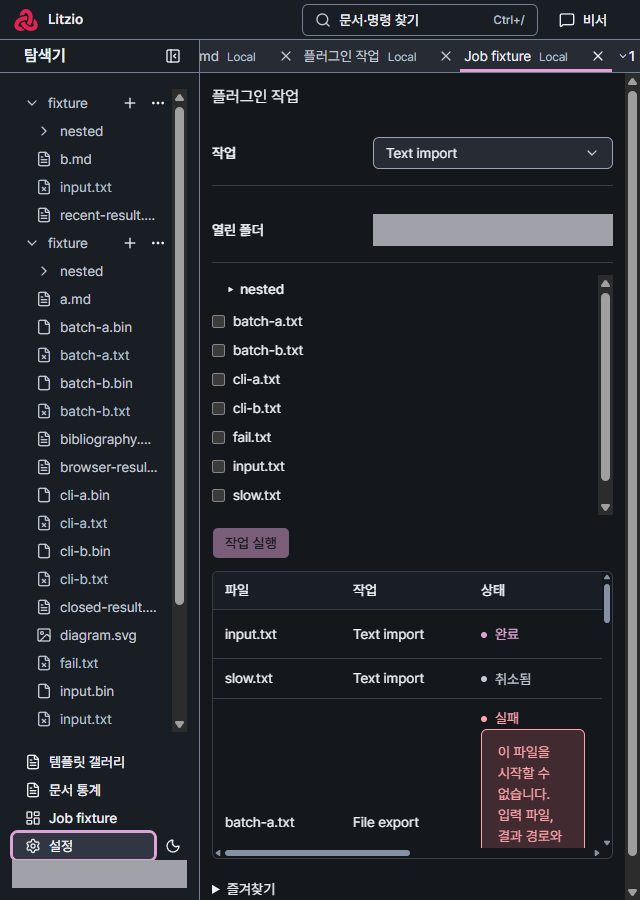
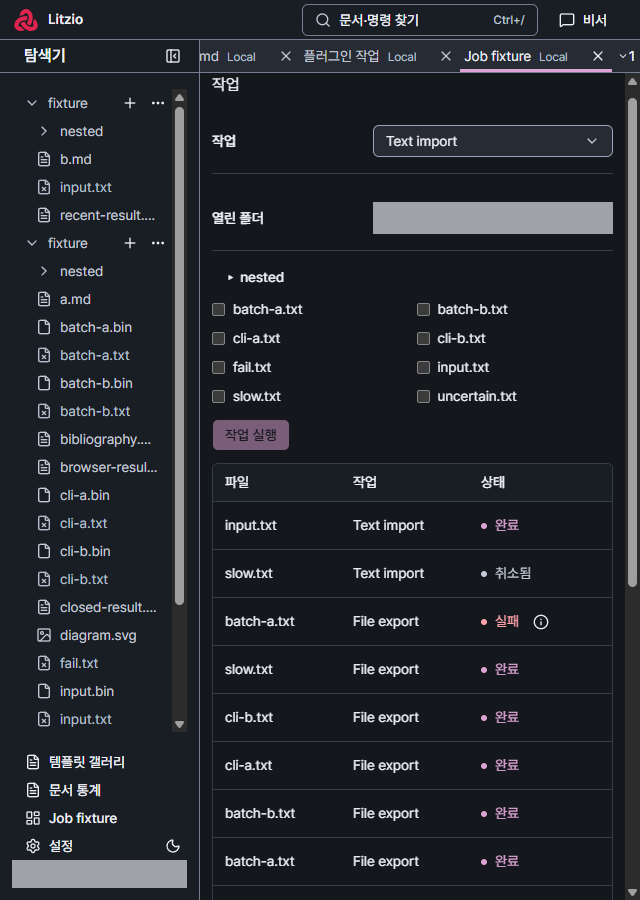
fix(editor): preserve job cancellation across stale observations
Share per-job observation generations across the screen panel and existing
Plugin jobs page. Invalidate earlier polls when a user action starts, and
pause that row's polling until its action settles. Cover delayed success
and error after stop acknowledgement with controlled promises.

Keep job rows compact with focusable error tooltips and ghost open actions.
Let the page own vertical scrolling and retain horizontal table scrolling.

AI-Agent: Codex
AI-Model: openai/gpt-6.1-sol

diff --git a/apps/editor/src/PluginJobs.tsx b/apps/editor/src/PluginJobs.tsx
@@ -1,3 +1,4 @@
+import { JobObservations } from "./job-observations.ts";
 import { randomUuid } from "./uuid.ts";
 import { i18n } from "./i18n.ts";
 import { useEffect, useRef, useState } from "react";
@@ -28,6 +29,7 @@ export function PluginJobs({ client, hostId, roots, active, onOpen }: { client: 
   const requestId = job?.requestId;
   const [recent, setRecent] = useState<JobSnapshot[]>([]);
   useEffect(() => { if (job) setRecent(previous => [job, ...previous.filter(item => item.requestId !== job.requestId)]); }, [job]);
+  const observations = useRef(new JobObservations());
   const lifetime = useRef<AbortController | null>(null);
   useEffect(() => { const controller = new AbortController(); lifetime.current = controller; return () => controller.abort(); }, []);
   const request = async (body?: unknown) => {
@@ -36,6 +38,7 @@ export function PluginJobs({ client, hostId, roots, active, onOpen }: { client: 
     const value = await response.json(); signal.throwIfAborted();
     if (!response.ok) { const message = value.error ?? "Job request failed"; throw response.status >= 400 && response.status < 500 ? new JobRefused(message) : new Error(message); } return value;
   };
+  const observe = (action: "job-status" | "job-stop", id: string) => observations.current.observe(id, "action", () => request({ action, requestId: id }), value => setJob(value.job), error => { throw error; });
   useEffect(() => {
     void Promise.all([request(), request({ action: "job-list" })]).then(([catalog, history]) => {
       setPlugins(catalog.plugins); setRecent(history.jobs);
@@ -60,7 +63,16 @@ export function PluginJobs({ client, hostId, roots, active, onOpen }: { client: 
   useEffect(() => {
     if (!active || !requestId || job?.state !== "running" || busy) return;
     const controller = new AbortController(); let timer: ReturnType<typeof setTimeout>;
-    const poll = async () => { try { const response = await client.request("/api/plugins", { method: "POST", headers: { "Content-Type": "application/json" }, body: JSON.stringify({ action: "job-status", requestId }), signal: AbortSignal.any([controller.signal, AbortSignal.timeout(10000)]) }); if (!response.ok) throw new Error(); const value = await response.json(); if (!controller.signal.aborted) { setJob(value.job); if (value.job.state === "running") timer = setTimeout(poll, 1000); } } catch { if (!controller.signal.aborted) setJob(previous => previous ? { ...previous, state: "uncertain", result: undefined } : previous); } };
+    const poll = async () => {
+      await observations.current.observe(requestId, "poll", async () => {
+        const response = await client.request("/api/plugins", { method: "POST", headers: { "Content-Type": "application/json" }, body: JSON.stringify({ action: "job-status", requestId }), signal: AbortSignal.any([controller.signal, AbortSignal.timeout(10000)]) });
+        if (!response.ok) throw new Error();
+        return response.json();
+      }, value => { if (!controller.signal.aborted) setJob(value.job); }, () => {
+        if (!controller.signal.aborted) setJob(previous => previous?.requestId === requestId ? { ...previous, state: "uncertain", result: undefined } : previous);
+      });
+      if (!controller.signal.aborted) timer = setTimeout(poll, 1000);
+    };
     timer = setTimeout(poll, 1000); return () => { controller.abort(); clearTimeout(timer); };
   }, [active, requestId, job?.state, busy, client]);
   const run = async (action: () => Promise<void>) => { setBusy(true); setProblem(""); try { await action(); } catch (error) { if (!lifetime.current?.signal.aborted) { setProblem(String(error)); setJob(previous => previous?.state === "running" ? { ...previous, state: "uncertain", result: undefined } : previous); } } finally { if (!lifetime.current?.signal.aborted) setBusy(false); } };
@@ -99,7 +111,7 @@ export function PluginJobs({ client, hostId, roots, active, onOpen }: { client: 
       {job.progress ? <div className="plugin-job-progress"><Progress aria-label={i18n.t("Job progress")} max={job.progress.total} value={job.progress.done} /><span>{job.progress.done}/{job.progress.total}</span></div> : null}
       {job.state === "uncertain" ? <Notice tone="warning">{i18n.t("The job outcome is uncertain. Check the status before starting again.")}</Notice> : null}
       {job.error ? <Notice tone="error">{job.errorKind ? `[${job.errorKind}] ${job.error}` : job.error}</Notice> : null}
-      <JobActions job={job} busy={busy} request={request} update={setJob} run={run} onOpen={onOpen} />
+      <JobActions job={job} busy={busy} request={request} observe={observe} run={run} onOpen={onOpen} />
     </section> : null}
     {problem ? <Notice tone="error">{problem}</Notice> : null}
   </div>;
@@ -111,12 +123,12 @@ export function JobState({ job }: { job: JobSnapshot }) {
           {i18n.t(job.state === "running" && job.stopRequested ? "Cancellation requested" : stateLabels[job.state])}
         </span>;
 }
-export function JobActions({ job, busy, request, update, run, onOpen, compact = false }: { compact?: boolean; job: JobSnapshot; busy: boolean; request(body: unknown): Promise<any>; update(job: JobSnapshot): void; run(action: () => Promise<void>): Promise<void>; onOpen(path: string): Promise<unknown> }) {
+export function JobActions({ job, busy, request, observe, run, onOpen, compact = false }: { compact?: boolean; job: JobSnapshot; busy: boolean; request(body: unknown): Promise<any>; observe(action: "job-status" | "job-stop", id: string): Promise<void>; run(action: () => Promise<void>): Promise<void>; onOpen(path: string): Promise<unknown> }) {
   const requestId = job.requestId;
   return <>      <div className="view-controls">
-        {job.state === "uncertain" ? <Button variant="secondary" disabled={busy} onClick={() => void run(async () => { const value = await request({ action: "job-status", requestId }); update(value.job); })}>{i18n.t("Recheck status")}</Button> : null}
-        {job.state === "running" && !job.stopRequested ? <Button variant="secondary" disabled={busy} onClick={() => void run(async () => { const value = await request({ action: "job-stop", requestId }); update(value.job); })}>{i18n.t("Request cancellation")}</Button> : null}
-        {job.state === "completed" && job.result?.kind !== "file" ? <Button disabled={busy} onClick={() => void run(async () => { const value = await request({ action: "job-result", requestId }); await onOpen(value.job.result.path); })}>{i18n.t("Open result document")}</Button> : null}
+        {job.state === "uncertain" ? <Button variant={compact ? "ghost" : "secondary"} size={compact ? "sm" : "default"} disabled={busy} onClick={() => void run(() => observe("job-status", requestId))}>{i18n.t("Recheck status")}</Button> : null}
+        {job.state === "running" && !job.stopRequested ? <Button variant={compact ? "ghost" : "secondary"} size={compact ? "sm" : "default"} disabled={busy} onClick={() => void run(() => observe("job-stop", requestId))}>{i18n.t("Request cancellation")}</Button> : null}
+        {job.state === "completed" && job.result?.kind !== "file" ? <Button variant={compact ? "ghost" : "default"} size={compact ? "sm" : "default"} aria-label={compact ? i18n.t("Open result: {{file}}", { file: job.file ?? job.requestId }) : undefined} disabled={busy} onClick={() => void run(async () => { const value = await request({ action: "job-result", requestId }); await onOpen(value.job.result.path); })}>{i18n.t(compact ? "Open" : "Open result document")}</Button> : null}
       </div>
       {job.state === "completed" && job.result?.kind === "file" ? <div className="view-controls plugin-job-file-result">{compact ? null : <p>{job.result.path}</p>}<CopyButton text={job.result.path} label={i18n.t("Copy result path")} /></div> : null}</>;
 }

diff --git a/apps/editor/src/PluginJobPanel.tsx b/apps/editor/src/PluginJobPanel.tsx
@@ -1,7 +1,10 @@
+import { JobObservations } from "./job-observations.ts";
 import { useEffect, useRef, useState } from "react";
 import { JOB_BATCH_MAX_FILES, type JobContribution, type JobSnapshot, type BatchJobResult } from "@litzio/plugin-sdk";
 import type { HostClient } from "./host-client.ts";
 import { JobActions, JobState, jobEntries, listJobFolder } from "./PluginJobs.tsx";
+import { Info } from "lucide-react";
+import { Tooltip, TooltipTrigger, TooltipContent } from "./components/ui/tooltip.tsx";
 import { SettingsSelect } from "./components/ui/settings.tsx";
 import { Button } from "./components/ui/button.tsx";
 import { Notice } from "./ui/primitives.tsx";
@@ -15,6 +18,7 @@ export function PluginJobPanel({ client, plugin, jobIds, roots, active, onOpen }
   const [root, setRoot] = useState(roots[0] ?? ""), [folder, setFolder] = useState("");
   const [entries, setEntries] = useState<{ name: string; path: string; kind: string }[]>([]), [files, setFiles] = useState<string[]>([]);
   const [jobs, setJobs] = useState<JobSnapshot[]>([]), [busy, setBusy] = useState(false), [problem, setProblem] = useState("");
+  const observations = useRef(new JobObservations());
   const lifetime = useRef<AbortController | null>(null);
   const request = async (body?: unknown) => {
     const signal = AbortSignal.any([lifetime.current!.signal, AbortSignal.timeout(10000)]);
@@ -24,6 +28,7 @@ export function PluginJobPanel({ client, plugin, jobIds, roots, active, onOpen }
     return value;
   };
   const update = (job: JobSnapshot) => setJobs(previous => previous.map(item => item.requestId === job.requestId ? job : item));
+  const observe = (action: "job-status" | "job-stop", id: string) => observations.current.observe(id, "action", () => request({ action, requestId: id }), value => update(value.job), error => { throw error; });
   useEffect(() => {
     const controller = new AbortController(); lifetime.current = controller;
     setBusy(false);
@@ -50,11 +55,13 @@ export function PluginJobPanel({ client, plugin, jobIds, roots, active, onOpen }
     const controller = new AbortController(); let timer: ReturnType<typeof setTimeout>;
     const poll = async () => {
       await Promise.all(running.split(",").map(async requestId => {
-        try {
+        await observations.current.observe(requestId, "poll", async () => {
           const response = await client.request("/api/plugins", { method: "POST", headers: { "Content-Type": "application/json" }, body: JSON.stringify({ action: "job-status", requestId }), signal: AbortSignal.any([controller.signal, AbortSignal.timeout(10000)]) });
           if (!response.ok) throw new Error();
-          const value = await response.json(); if (!controller.signal.aborted) update(value.job);
-        } catch { if (!controller.signal.aborted) setJobs(previous => previous.map(job => job.requestId === requestId && job.state === "running" ? { ...job, state: "uncertain", result: undefined } : job)); }
+          return response.json();
+        }, value => { if (!controller.signal.aborted) update(value.job); }, () => {
+          if (!controller.signal.aborted) setJobs(previous => previous.map(job => job.requestId === requestId && job.state === "running" ? { ...job, state: "uncertain", result: undefined } : job));
+        });
       }));
       if (!controller.signal.aborted) timer = setTimeout(poll, 1000);
     };
@@ -67,7 +74,7 @@ export function PluginJobPanel({ client, plugin, jobIds, roots, active, onOpen }
     finally { if (!signal.aborted) setBusy(false); }
   };
   return <section className="view-panel plugin-job-panel" data-testid="plugin-job-panel" aria-label={i18n.t("Plugin jobs")}>
-    <h3>{i18n.t("Plugin jobs")}</h3>
+    <h3>{i18n.t("Jobs")}</h3>
     {jobIds.length > 1 ? <SettingsSelect label={i18n.t("Job")} value={selected} disabled={!active || busy} onChange={value => { setSelected(value); setFiles([]); }} options={bindings.filter(job => jobIds.includes(job.id)).map(job => ({ value: job.id, label: job.title }))} /> : null}
     <SettingsSelect label={i18n.t("Opened folder")} value={enabled ? root : ""} disabled={!active || busy} onChange={value => { setRoot(value); resetFolder(""); }} options={[{ value: "", label: "—" }, ...roots.map(value => ({ value, label: value }))]} />
     {folder ? <div className="view-controls"><span>{folder}</span><Button variant="secondary" size="sm" disabled={busy} onClick={() => resetFolder("")}>{i18n.t("Return to opened folder")}</Button></div> : null}
@@ -93,8 +100,11 @@ export function PluginJobPanel({ client, plugin, jobIds, roots, active, onOpen }
       <thead><tr>{(["File", "Job", "Status", "Phase", "Elapsed", "Actions"] as const).map(label => <th key={label}>{i18n.t(label)}</th>)}</tr></thead>
       <tbody>{[...jobs].sort((a, b) => (b.startedAt ?? 0) - (a.startedAt ?? 0)).map(job => <tr key={job.requestId}>
         <td>{job.file ?? "—"}</td><td>{bindings.find(binding => binding.id === job.job)?.title ?? job.job}</td>
-        <td><JobState job={job} />{job.state === "uncertain" ? <Notice tone="warning">{i18n.t("The job outcome is uncertain. Check the status before starting again.")}</Notice> : null}{job.error ? <Notice tone="error">{job.errorKind ? `[${job.errorKind}] ${job.error}` : job.error === "Cannot start this file. Check the input, result path and plugin availability." ? i18n.t("Cannot start this file. Check the input, result path and plugin availability.") : job.error}</Notice> : null}</td>
-        <td>{job.phase}</td><td>{Math.floor(job.elapsedMs / 1000)} s</td><td><JobActions compact job={job} busy={busy || !active} request={request} update={update} run={run} onOpen={onOpen} /></td>
+        <td><div className="plugin-job-state"><JobState job={job} />{job.error || job.state === "uncertain" ? <Tooltip><TooltipTrigger render={<Button variant="ghost" size="icon-sm" aria-label={i18n.t("Job details: {{file}}", { file: job.file ?? job.requestId })} />}><Info aria-hidden="true" /></TooltipTrigger><TooltipContent>
+          {job.state === "uncertain" ? i18n.t("The job outcome is uncertain. Check the status before starting again.") : null}
+          {job.error ? job.errorKind ? `[${job.errorKind}] ${job.error}` : job.error === "Cannot start this file. Check the input, result path and plugin availability." ? i18n.t("Cannot start this file. Check the input, result path and plugin availability.") : job.error : null}
+        </TooltipContent></Tooltip> : null}</div></td>
+        <td>{job.phase}</td><td>{Math.floor(job.elapsedMs / 1000)} s</td><td><JobActions compact job={job} busy={busy || !active} request={request} observe={observe} run={run} onOpen={onOpen} /></td>
       </tr>)}</tbody>
     </table></div>
     {problem ? <Notice tone="error">{problem}</Notice> : null}

diff --git a/apps/editor/test/plugin-jobs.browser.js b/apps/editor/test/plugin-jobs.browser.js
@@ -173,7 +173,13 @@ async (page, { expect, pluginFixture, openFolderPicker, screenshots }) => {
   await panel.getByRole("checkbox", { name: "input.txt", exact: true }).check();
   await panel.getByRole("button", { name: "Start job", exact: true }).click();
   const nativeRow = panel.getByRole("row").filter({ has: page.getByRole("cell", { name: "input.txt", exact: true }) }).first();
-  await expect(nativeRow.getByRole("button", { name: "Open result document", exact: true })).toBeVisible();
+  await expect(nativeRow.getByRole("button", { name: "Open result: input.txt", exact: true })).toBeVisible();
+  for (const selector of [".plugin-job-files", ".view-table-scroll"]) {
+    expect(await panel.locator(selector).evaluate(el => el.scrollHeight <= el.clientHeight)).toBe(true);
+  }
+  const failureRow = panel.getByRole("row").filter({ has: page.getByRole("cell", { name: "batch-a.txt", exact: true }) }).first();
+  expect((await failureRow.boundingBox()).height).toBe((await nativeRow.boundingBox()).height);
+
   if (screenshots) {
     for (const width of [1440, 640]) {
       if (width === 640) {
@@ -183,12 +189,22 @@ async (page, { expect, pluginFixture, openFolderPicker, screenshots }) => {
         await page.keyboard.press("Escape");
       }
       await page.setViewportSize({ width, height: 900 });
+      await panel.scrollIntoViewIfNeeded();
+      await panel.getByRole("heading", { name: width === 640 ? "작업" : "Jobs", exact: true }).first().scrollIntoViewIfNeeded();
       await expect(panel.getByRole("row").nth(1).getByRole("cell").first()).toHaveText("input.txt");
       expect(await panel.evaluate(el => el.scrollWidth <= el.clientWidth)).toBe(true);
       if (width === 640) {
         expect(await panel.locator(".view-table-scroll").evaluate(el => el.scrollWidth > el.clientWidth)).toBe(true);
-        await expect(panel.getByText("이 파일을 시작할 수 없습니다. 입력 파일, 결과 경로와 플러그인 상태를 확인하세요.", { exact: true })).toHaveCount(1);
+        const info = panel.getByRole("button", { name: "작업 상세: batch-a.txt", exact: true }).first();
+        await nativeRow.getByRole("button", { name: "결과 열기: input.txt", exact: true }).focus();
+        await page.keyboard.press("Tab");
+        await expect(info).toBeFocused();
+        await expect(page.locator("[data-slot=tooltip-content]")).toBeVisible();
+        await expect(page.locator("[data-slot=tooltip-content]")).toContainText("이 파일을 시작할 수 없습니다.");
+        await page.keyboard.press("Escape");
+        await nativeRow.getByRole("cell").first().click();
       }
+      await panel.getByRole("heading", { name: width === 640 ? "작업" : "Jobs", exact: true }).first().scrollIntoViewIfNeeded();
       await page.screenshot({ path: `tmp/plugin-jobs/panel-${width}.png`, maskColor: "#a1a1aa", mask: [page.locator(".sidebar-host-account"), panel.getByLabel(width === 640 ? "열린 폴더" : "Opened folder", { exact: true })] });
     }
     // Screenshot-only scroll inspection; this is separate from the user-flow assertions.
@@ -199,7 +215,7 @@ async (page, { expect, pluginFixture, openFolderPicker, screenshots }) => {
     await page.getByTestId("ui-language").selectOption("en");
     await page.keyboard.press("Escape");
   }
-  await nativeRow.getByRole("button", { name: "Open result document", exact: true }).click();
+  await nativeRow.getByRole("button", { name: "Open result: input.txt", exact: true }).click();
   await expect(page.locator(".tiptap").filter({ visible: true })).toContainText("Job result.");
   pluginFixture.cli(["plugins", "disable", plugin.id]);
   pluginFixture.cli(["plugins", "unregister", plugin.id]);

diff --git a/apps/editor/test/plugin-jobs.test.ts b/apps/editor/test/plugin-jobs.test.ts
@@ -1,3 +1,4 @@
+import { JobObservations } from "../src/job-observations.ts";
 import { randomUuid } from "../src/uuid.ts";
 import test from "node:test";
 import assert from "node:assert/strict";
@@ -419,4 +420,28 @@ test("public SDK authoring crosses the external plugin boundary and K1 official 
     }
 
   } finally { await host.close(); rmSync(root, { recursive: true, force: true }); }
+});
+
+test("K1 observations retain a stop acknowledgement after an older poll succeeds or fails", async () => {
+  for (const lost of [false, true]) {
+    const observations = new JobObservations();
+    let snapshot = { state: "running", stopRequested: false };
+    const pending = Promise.withResolvers<typeof snapshot>();
+    const older = observations.observe("job-a", "poll", () => pending.promise,
+      value => { snapshot = value; }, () => { snapshot = { ...snapshot, state: "uncertain" }; });
+    const stop = Promise.withResolvers<typeof snapshot>();
+    const action = observations.observe("job-a", "action", () => stop.promise,
+      value => { snapshot = value; }, error => { throw error; });
+    let polled = false;
+    await observations.observe("job-a", "poll", async () => { polled = true; return snapshot; }, value => { snapshot = value; }, error => { throw error; });
+    assert.equal(polled, false, "a poll cannot supersede an in-flight stop");
+    stop.resolve({ state: "running", stopRequested: true }); await action;
+    assert.equal(snapshot.stopRequested, true);
+    if (lost) pending.reject(new Error("older observation lost"));
+    else pending.resolve({ state: "running", stopRequested: false });
+    await older;
+    assert.deepEqual(snapshot, { state: "running", stopRequested: true });
+    await observations.observe("job-a", "poll", async () => ({ state: "stopped", stopRequested: true }), value => { snapshot = value; }, error => { throw error; });
+    assert.equal(snapshot.state, "stopped", "fresh observations resume after the acknowledgement");
+  }
 });

diff --git a/apps/editor/src/views/views.css b/apps/editor/src/views/views.css
@@ -74,9 +74,12 @@
 .view-cell-link:focus-visible { outline: 2px solid var(--id-color-accent); outline-offset: 2px; border-radius: var(--id-radius-sm); }
 
 .plugin-job-panel { flex-shrink: 0; }
-.plugin-job-files { display: flex; flex-direction: column; gap: var(--space-2); max-height: calc(var(--space-6) * 10); overflow: auto; }
+.plugin-job-files { display: grid; grid-template-columns: repeat(auto-fit, minmax(min(100%, calc(var(--space-4) * 12)), 1fr)); gap: var(--space-2); }
 .plugin-job-files label { display: flex; align-items: center; gap: var(--space-2); font-size: var(--font-size-sm); overflow-wrap: anywhere; }
 .plugin-job-panel td .view-controls { align-items: center; }
 
-.plugin-job-files > button { justify-content: flex-start; }
-.plugin-job-panel .view-table-scroll { max-height: calc(var(--space-6) * 12); }
+.plugin-job-files > button { grid-column: 1 / -1; justify-content: flex-start; }
+.plugin-job-panel .view-table-scroll { overflow-x: auto; }
+.plugin-job-state { display: flex; align-items: center; gap: var(--space-2); white-space: nowrap; }
+
+.plugin-job-panel tbody tr { height: calc(var(--space-6) * 2); }

diff --git a/apps/editor/src/locales.ts b/apps/editor/src/locales.ts
@@ -1,6 +1,9 @@
 import { brand } from "../../../brand.ts";
 /** Bundled UI resources. English source phrases are translation keys, never operation IDs. */
 export const en = {
+  "Open result: {{file}}": "Open result: {{file}}",
+  "Job details: {{file}}": "Job details: {{file}}",
+  "Jobs": "Jobs",
   "Cannot list Host folder": "Cannot list Host folder",
   "Cannot start this file. Check the input, result path and plugin availability.": "Cannot start this file. Check the input, result path and plugin availability.",
   "Status": "Status",
@@ -1249,6 +1252,9 @@ export const en = {
   "Home": "Home"
 } as const;
 export const ko: Record<keyof typeof en, string> = {
+  "Open result: {{file}}": "결과 열기: {{file}}",
+  "Job details: {{file}}": "작업 상세: {{file}}",
+  "Jobs": "작업",
   "Cannot list Host folder": "Host 폴더를 표시할 수 없습니다.",
   "Cannot start this file. Check the input, result path and plugin availability.": "이 파일을 시작할 수 없습니다. 입력 파일, 결과 경로와 플러그인 상태를 확인하세요.",
   "Status": "상태",

diff --git a/apps/editor/src/job-observations.ts b/apps/editor/src/job-observations.ts
@@ -1,0 +1,19 @@
+/** UI-owned ordering per K1 request; never serialize unrelated jobs or Host work. */
+export class JobObservations {
+  private generations = new Map<string, number>();
+  private actions = new Set<string>();
+  async observe<T>(id: string, kind: "poll" | "action", work: () => Promise<T>, accept: (value: T) => void, fail: (error: unknown) => void): Promise<void> {
+    if (kind === "poll" && this.actions.has(id)) return;
+    const generation = (this.generations.get(id) ?? 0) + 1;
+    this.generations.set(id, generation);
+    if (kind === "action") this.actions.add(id);
+    try {
+      const value = await work();
+      if (this.generations.get(id) === generation) accept(value);
+    } catch (error) {
+      if (this.generations.get(id) === generation) fail(error);
+    } finally {
+      if (kind === "action" && this.generations.get(id) === generation) this.actions.delete(id);
+    }
+  }
+}

diff --git a/docs/design/plugin-stage1-v1.md b/docs/design/plugin-stage1-v1.md
@@ -314,4 +314,8 @@ litzio plugins start example.plugin --job convert --root <root> --file a.pdf --f
 
 검증은 기존 job-plugin fixture의 SDK/Host 검사 및 `plugin-jobs` 브라우저 시나리오에 집중한다. 실제 Docling manifest 변경·변환 품질은 범위 밖이다. 수동 캡처는 `pnpm browser:test plugin-jobs --screenshots`의 `tmp/plugin-jobs/panel-1440.png`, `panel-640.png`다.
 
-2026-11-09 수동 검토: [1440px](assets/plugin-job-panel-1340/panel-1440.png), [한국어 다크 640px](assets/plugin-job-panel-1340/panel-640.png), [640px 표 오른쪽 끝](assets/plugin-job-panel-1340/panel-640-end.png). 기존 #1330 화면의 간소화된 구조를 유지하며 패널·표 정렬, 여백, 한국어·다크, 640px 내부 가로 스크롤을 확인했다. 계정·폴더 경로는 촬영 시 마스킹했다. 기존 plugin-jobs에 다중 시작·부분 충돌·CLI·행 중단·결과 열기를 보완했으며 최종 로컬 실행은 약 1.5분(HTTP 복구 포함 2개)이다. SDK/K1 19개·조회 뷰 Host/CLI 5개, 관련 typecheck/build·문서·경계 검사를 통과했다. fixture 성공은 실제 Docling 수락이 아니다.
+2026-11-09 수동 검토: [1440px](assets/plugin-job-panel-1340/panel-1440.png), [한국어 다크 640px](assets/plugin-job-panel-1340/panel-640.png), [640px 표 오른쪽 끝](assets/plugin-job-panel-1340/panel-640-end.png). 기존 #1330 화면의 간소화된 구조를 유지하며 패널·표 정렬, 여백, 한국어·다크, 640px 내부 가로 스크롤을 확인했다. 계정·폴더 경로는 촬영 시 마스킹했다. 기존 plugin-jobs에 다중 시작·부분 충돌·CLI·행 중단·결과 열기를 보완했으며 재검토 로컬 실행은 약 1.3분(HTTP 복구 포함 2개)이다. K1 15개(응답 역전 회귀 포함), 관련 typecheck/build·문서 검사를 통과했다. 브라우저에서는 실패/완료 행 높이 일치, 중첩 세로 스크롤 없음과 Tab focus Tooltip의 실제 표시도 확인했다. fixture 성공은 실제 Docling 수락이 아니다.
+
+#1342 재검토 보완: 앱의 행별 `JobObservations` 세대가 사용자 상태 재확인·중단보다 오래된 polling 성공/오류를 모두 무시한다. 사용자 작업 응답 대기 중에는 같은 행의 polling을 보류하고 이후 다시 관찰한다. Host 작업은 직렬화하지 않으며 기존 공용 Plugin jobs에도 같은 보호를 적용한다. 제어 Promise 단위 회귀에서 관찰 보류 → 중단 접수 반영 → 오래된 성공/오류 도착 → 중단 상태 유지와 새 관찰 재개를 검증한다. 고정 대기나 브라우저 fault 시나리오는 추가하지 않는다.
+
+작업 섹션 제목은 ‘작업’이며 실패·불확실 안내는 행의 Info 아이콘 Tooltip으로 표시한다. 키보드 focus로 같은 안내를 연다. 결과 열기는 ghost/sm ‘열기’와 파일 이름을 포함한 접근성 이름을 쓴다. 파일 선택과 표는 내용 높이대로 펼쳐 페이지가 세로 스크롤을 소유하고 표에는 내부 가로 스크롤만 둔다. 기존 즐겨찾기 영역은 이번 변경에서 유지한다.
